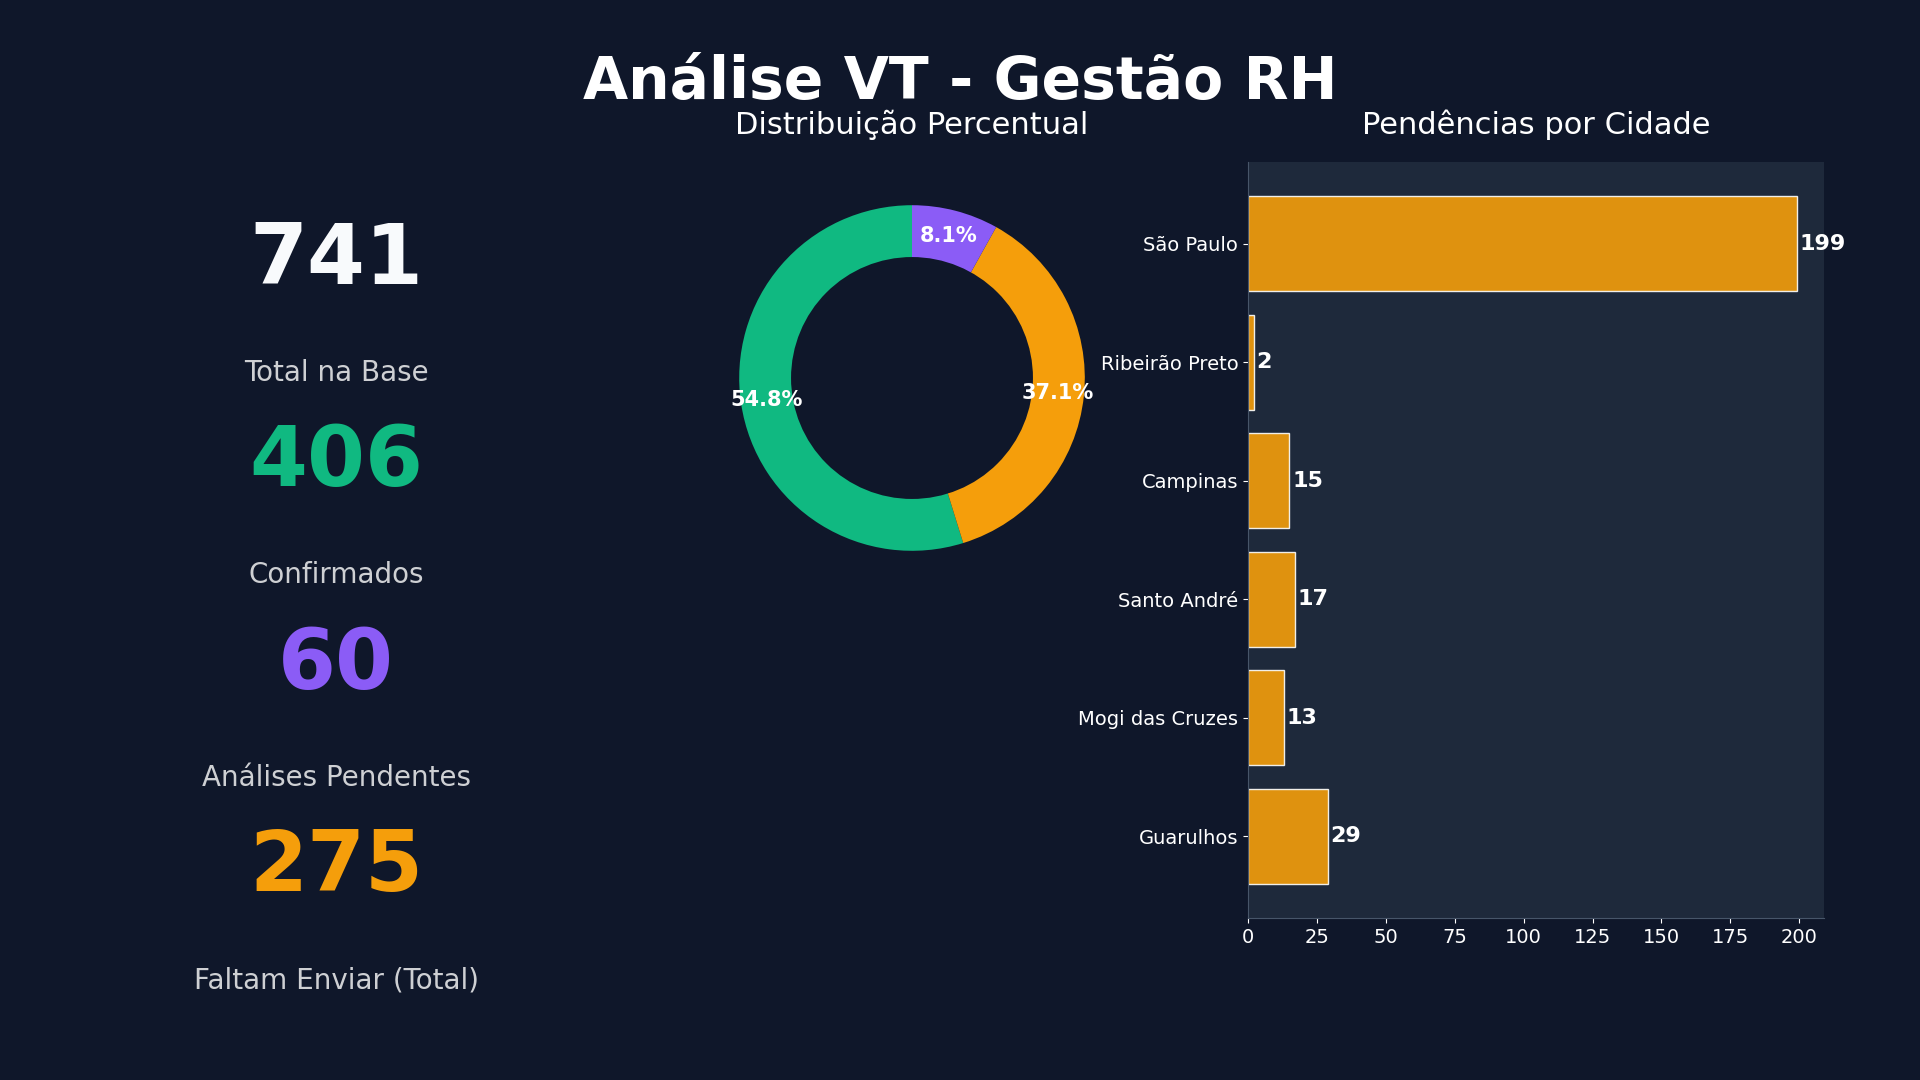
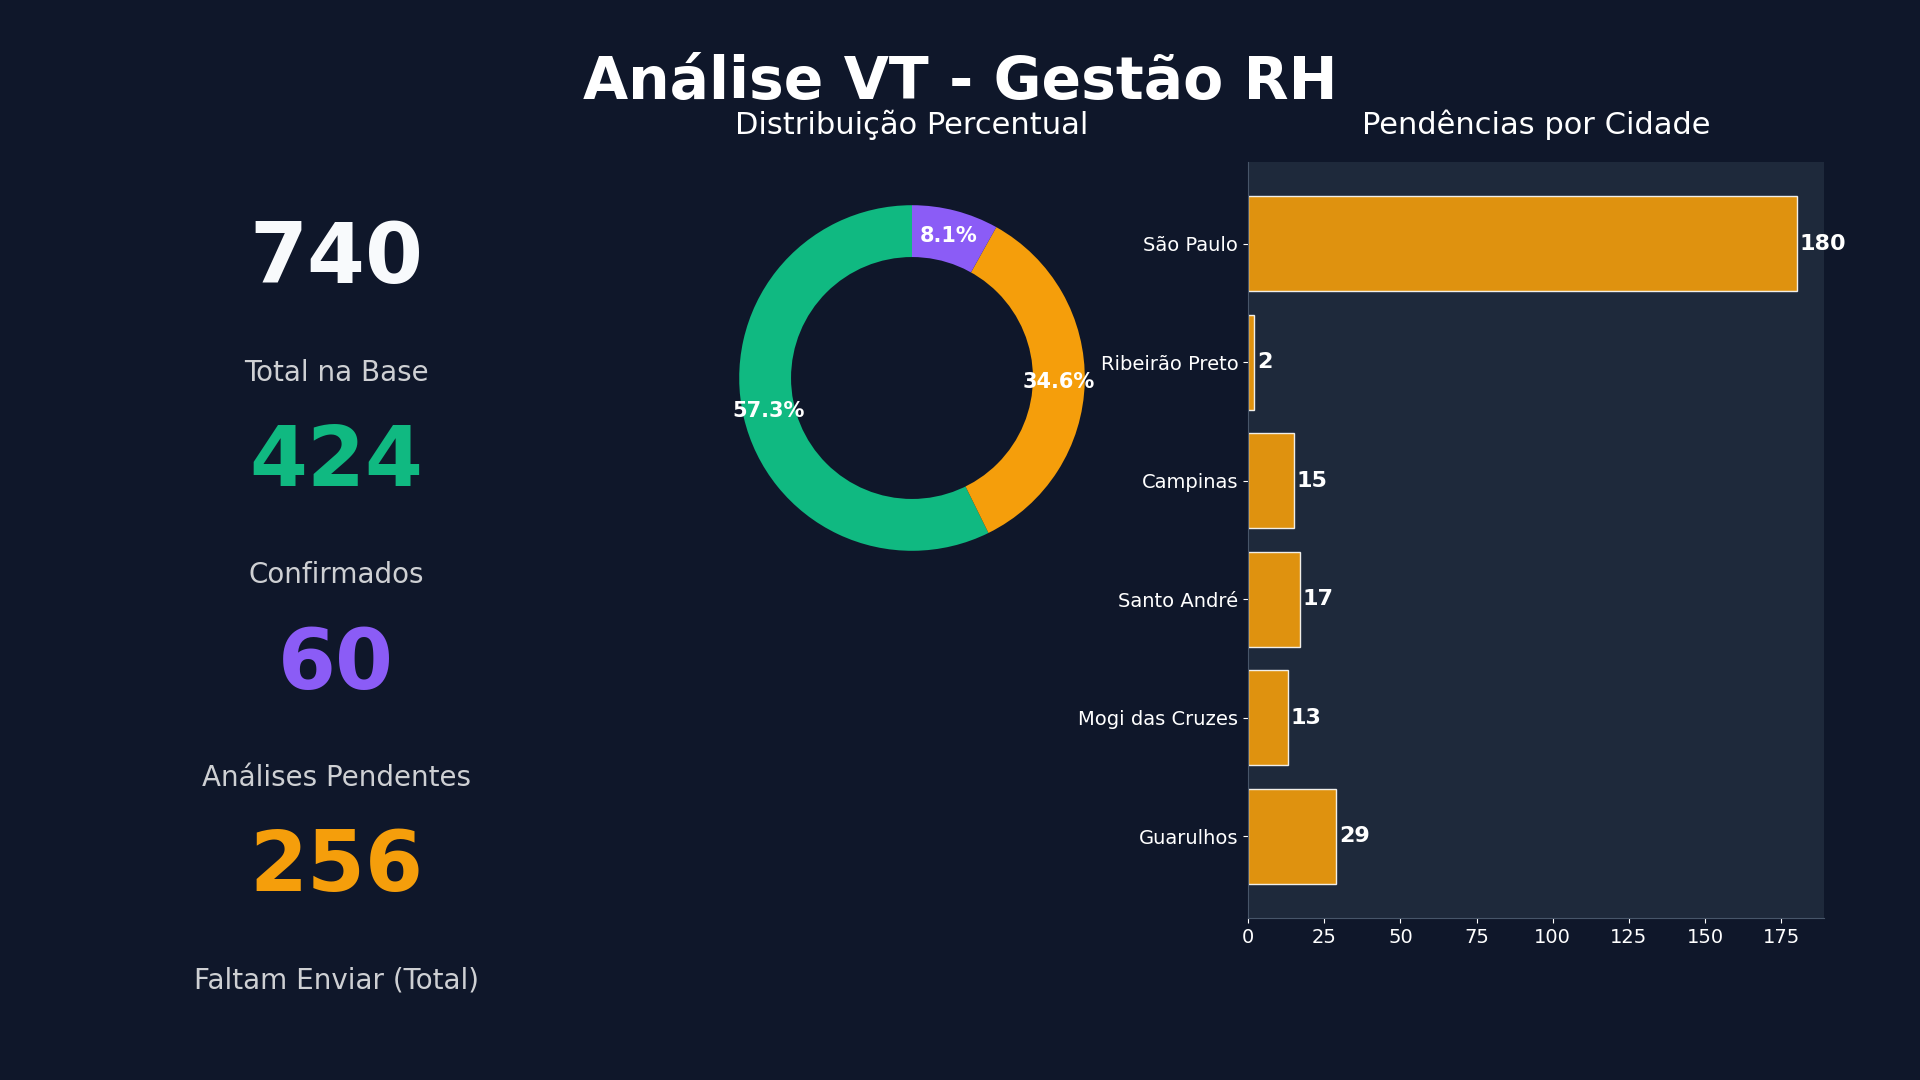
Analise de VT 424 confirmados

diff --git a/import matplotlib.py b/import matplotlib.py
@@ -3,8 +3,8 @@ import pandas as pd
 import numpy as np
 
 # Data
-data_faltam = {'Guarulhos': 29, 'Mogi das Cruzes': 13, 'Santo André': 17,'Campinas': 15, 'Ribeirão Preto': 2, 'São Paulo': 199}
-confirmados = 406
+data_faltam = {'Guarulhos': 29, 'Mogi das Cruzes': 13, 'Santo André': 17,'Campinas': 15, 'Ribeirão Preto': 2, 'São Paulo': 180}
+confirmados = 424
 analises = 60
 total = sum(data_faltam.values()) + confirmados + analises
 
@@ -63,7 +63,7 @@ plt.savefig('analise_vt_dashboard_fullhd.png', facecolor=fig.get_facecolor(), dp
 # Salvar CSV para gerenciamento
 df_report = pd.DataFrame({
     'Categoria': ['Confirmados', 'Análises não concluídas', 'Faltam (Guarulhos)', 'Faltam (Mogi)', 'Faltam (Santo André)', 'Faltam(Campinas)', 'Faltam(Ribeirão Preto)', 'Faltam(São Paulo)'],
-    'Quantidade': [406, 60, 29, 13, 17, 15, 2, 199]
+    'Quantidade': [424, 60, 29, 13, 17, 15, 2, 180]
 })
 plt.show()
 df_report.to_csv('relatorio_gestao_vt.csv', index=False)
